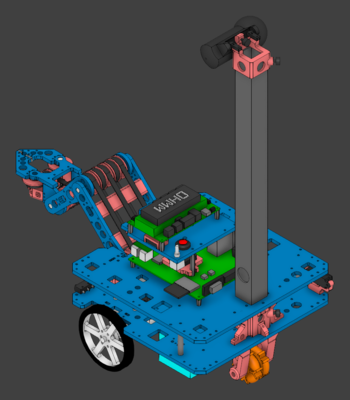
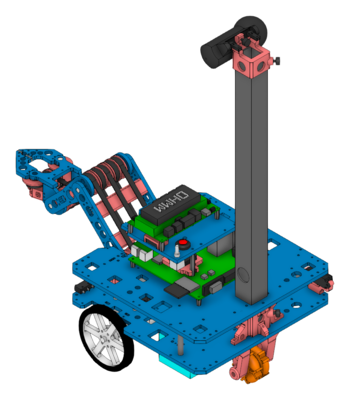
shot --theme (dark by default) and --background; README pictures on white, a window screenshot
cad-viewer shot and replay take --theme dark|light|auto, dark by default (the
system's preference emulated for the viewer's Auto); shot --background sets
the view's own background. The README's demo pictures are rendered on white,
and the README shows a screenshot of the whole viewer window (the user's).

Claude-Session: https://claude.ai/code/session_01HoEmKhLeZsDQLbhZtpEtXP

diff --git a/packages/viewer/bin/viewer.ts b/packages/viewer/bin/viewer.ts
@@ -32,11 +32,13 @@ Commands:
 
 Options for shot:
   -o <png>             where the PNG goes (default: the file's name with .png, in the current directory)
-                       (replay: -o, --json and --chrome too)
+                       (replay: -o, --json, --theme and --chrome too)
   --size <w>x<h>       the view in pixels (default 1200x800; one pixel per CSS pixel)
   --view <name>        front, back, left, right, top, bottom or iso (default: as the page fits it)
   --state <query>      more of the view, as in a link's address: "cut=x:10&hide=as1/plate&ao=0" (README.md)
   --json <file>        also write the page's state, the view's link and its status line there ("-": standard output)
+  --theme <theme>      dark (the default), light, or auto (the viewer's Auto: headless Chrome's preference, light)
+  --background <color> the view's background instead of the theme's, #rrggbb (white for pictures on a white page)
   --chrome <path>      Chrome (default: $CHROME, or where it usually is)
 
 Options (start, open and shot; a running server keeps its own):
@@ -59,6 +61,10 @@ export interface ShotOptions {
   state?: string;
   json?: string;
   chrome?: string;
+  /** dark (the default), light, or auto: headless Chrome's own preference, which the viewer's Auto follows. */
+  theme?: 'dark' | 'light' | 'auto';
+  /** The view's background instead of the theme's (0xrrggbb). */
+  background?: number;
 }
 
 export interface Args {
@@ -104,6 +110,15 @@ export function parseArgs(argv: string[]): Args | string {
       else if (a === '--state') shot.state = value().replace(/^\?/, '');
       else if (a === '--json') shot.json = value();
       else if (a === '--chrome') shot.chrome = value();
+      else if (a === '--theme') {
+        const v = value();
+        if (v !== 'dark' && v !== 'light' && v !== 'auto') return `--theme is dark, light or auto: ${v}`;
+        shot.theme = v;
+      } else if (a === '--background') {
+        const v = value();
+        if (!/^#?[0-9a-f]{6}$/i.test(v)) return `--background is #rrggbb: ${v}`;
+        shot.background = parseInt(v.replace('#', ''), 16);
+      }
       else if (a === '-h' || a === '--help') return 'help';
       else if (a.startsWith('-')) return `unknown option: ${a}`;
       else rest.push(a);
@@ -203,6 +218,13 @@ async function settled(tab: Tab, expression: string, timeoutMs: number): Promise
   }
 }
 
+/**
+ * The colour scheme headless Chrome reports for a shot's theme: the page starts with the viewer's Auto theme (a new
+ * profile remembers no choice), which follows it; auto leaves Chrome's own (light).
+ */
+const scheme = (o: ShotOptions): { colorScheme?: 'light' | 'dark' } => (o.theme ?? 'dark') === 'auto' ? {}
+  : { colorScheme: o.theme === 'light' ? 'light' : 'dark' };
+
 /** A file's `?model=`: its path within the content root, from its URL path below /content/. */
 const modelPath = (rel: string) => rel.slice(CONTENT_PREFIX.length).split('/').map(decodeURIComponent).join('/');
 
@@ -222,12 +244,13 @@ async function takeShot(s: State, file: string, o: ShotOptions, io: Io): Promise
   const headless = await launchChrome(fs.mkdtempSync(path.join(os.tmpdir(), 'cad-viewer-shot-')),
     { chrome: o.chrome, args: s.https === 'none' ? [] : ['--ignore-certificate-errors'] });
   try {
-    const tab = await headless.open(page, { width: o.width, height: o.height, scale: 1 });
+    const tab = await headless.open(page, { width: o.width, height: o.height, scale: 1, ...scheme(o) });
     await settled(tab, 'cadViewer.ready.then(() => cadViewer.idle()).then(() => true)', 600_000);
     const r = await tab.evaluate(`({ state: cadViewer.state(), link: cadViewer.link(),
       status: document.getElementById('status').textContent,
       error: document.getElementById('status').classList.contains('error'),
-      png: cadViewer.state().model ? cadViewer.screenshot() : null })`) as { state: { model?: { name: string;
+      png: cadViewer.state().model ? (${o.background === undefined ? '' : `viewer.setBackground(${o.background}), `
+      }cadViewer.screenshot()) : null })`) as { state: { model?: { name: string;
       triangles: number } }; link: string; status: string; error: boolean; png: string | null };
     const { png, ...report } = r;
     if (o.json) {
@@ -280,7 +303,7 @@ async function replayRecording(s: State, file: string, o: ShotOptions, io: Io): 
     { chrome: o.chrome, args: s.https === 'none' ? [] : ['--ignore-certificate-errors'] });
   try {
     const tab = await headless.open(s.url, { width: rec.window.width, height: rec.window.height,
-      scale: rec.window.scale });
+      scale: rec.window.scale, ...scheme(o) });
     await settled(tab, 'cadViewer.ready.then(() => true)', 600_000);
     const r = await tab.evaluate(`cadViewer.replay(${JSON.stringify(rec)}, { urls: ${JSON.stringify(urls)} })
       .then(async (report) => { await cadViewer.idle(); return { report, state: cadViewer.state(),

diff --git a/packages/viewer/test/browser-check.ts b/packages/viewer/test/browser-check.ts
@@ -16,6 +16,7 @@ import http from 'node:http';
 import net from 'node:net';
 import os from 'node:os';
 import path from 'node:path';
+import zlib from 'node:zlib';
 import { exportView, partInstances, tessellateScene } from 'cad-scene';
 import { glb, gltfJson } from 'export-gltf';
 import { threejsJson } from 'export-threejs';
@@ -1594,6 +1595,24 @@ await check('deterministic', async () => {
 });
 // cad-viewer shot (the dev server only): a PNG of the size asked for, and the page's state with the scene's
 // triangles.
+/**
+ * A PNG's top-left pixel, [r, g, b] (8-bit RGB or RGBA, as Chrome writes them): whatever a row's filter, its first
+ * pixel's bytes are stored as they are, since the bytes it would be predicted from (left, above) are zero in the
+ * first row.
+ */
+function topLeftPixel(png: Buffer): number[] {
+  const idat: Buffer[] = [];
+  for (let at = 8; at < png.length;) {
+    const length = png.readUInt32BE(at);
+    if (png.toString('latin1', at + 4, at + 8) === 'IDAT') idat.push(png.subarray(at + 8, at + 8 + length));
+    at += 12 + length;
+  }
+  const raw = zlib.inflateSync(Buffer.concat(idat));
+  return [raw[1]!, raw[2]!, raw[3]!];
+}
+
+// cad-viewer shot: dark by default (the viewer's Auto theme, with headless Chrome told the system is dark), light by
+// --theme, or a background of its own by --background (the background in the PNG's corner).
 if (!staticServer) await check('shot', async () => {
   const png = path.join(tmp, 'shot.png'), json = path.join(tmp, 'shot.json');
   const out: string[] = [];
@@ -1608,6 +1627,20 @@ if (!staticServer) await check('shot', async () => {
   expect(bytes.subarray(1, 4).toString() === 'PNG' && w === 1000 && h === 600, `png ${w}x${h}`);
   expect(report.state.model?.triangles === triangles && /[?&]model=as1\.stp(&|$)/.test(report.link),
     JSON.stringify(report.state.model));
+  expect(topLeftPixel(bytes).join() === '64,64,64', `dark by default: ${topLeftPixel(bytes)}`);
+  const lightPng = path.join(tmp, 'shot-light.png');
+  const code2 = await main(['shot', path.join(content, 'as1.stp'), '-o', lightPng, '--size', '400x300', '--theme',
+    'light', '--content-root', content, '--port', String(port)], { ...io, out: (s) => out.push(s),
+    err: (s) => out.push(s) });
+  expect(code2 === 0, `exit ${code2}: ${out.join('')}`);
+  expect(topLeftPixel(fs.readFileSync(lightPng)).join() === '217,217,217', `light: ${
+    topLeftPixel(fs.readFileSync(lightPng))}`);
+  // A background of its own (the README's pictures, on white).
+  const code3 = await main(['shot', path.join(content, 'as1.stp'), '-o', lightPng, '--size', '400x300', '--background',
+    '#ffffff', '--content-root', content, '--port', String(port)], { ...io, out: (s) => out.push(s),
+    err: (s) => out.push(s) });
+  expect(code3 === 0 && topLeftPixel(fs.readFileSync(lightPng)).join() === '255,255,255', `white: ${
+    topLeftPixel(fs.readFileSync(lightPng))}`);
   return undefined;
 });
 // Recording (src/recorder.ts): a session driven by real input (clicks on parts, shift-click, a drag, a wheel zoom)
@@ -1779,13 +1812,18 @@ await check('recording', async () => {
       { ...io, out: (s) => out.push(s), err: (s) => out.push(s) });
     expect(code === 0 && fs.existsSync(png) && /as recorded/.test(out.join('')), `cad-viewer replay: exit ${code}: ${
       out.join('')}`);
+    // Dark by default, as shot; light by --theme (below).
+    expect(topLeftPixel(fs.readFileSync(png)).join() === '64,64,64', `replay, dark: ${topLeftPixel(fs.readFileSync(
+      png))}`);
     // The local file found below the content root, by name and size.
     fs.writeFileSync(json, JSON.stringify(localRec));
     const out2: string[] = [];
-    const code2 = await main(['replay', json, '-o', png, '--content-root', content, '--port', String(port)],
-      { ...io, out: (s) => out2.push(s), err: (s) => out2.push(s) });
+    const code2 = await main(['replay', json, '-o', png, '--theme', 'light', '--content-root', content, '--port',
+      String(port)], { ...io, out: (s) => out2.push(s), err: (s) => out2.push(s) });
     expect(code2 === 0 && /as recorded/.test(out2.join('')), `cad-viewer replay, a local file: exit ${code2}: ${
       out2.join('')}`);
+    expect(topLeftPixel(fs.readFileSync(png)).join() === '217,217,217', `replay, light: ${topLeftPixel(
+      fs.readFileSync(png))}`);
   }
   return undefined;
 });

diff --git a/packages/viewer/test/viewer.test.ts b/packages/viewer/test/viewer.test.ts
@@ -296,10 +296,11 @@ test('cad-viewer: arguments', () => {
   assert.ok(typeof s === 'object' && s.given.length === 0 && s.file === undefined);
   assert.equal(parseArgs(['-h']), 'help');
   const shot = parseArgs(['shot', 'm.stp', '-o', 'out.png', '--size', '640x480', '--view', 'top', '--state',
-    '?cut=x:1&ao=0', '--json', '-', '--chrome', '/c']);
+    '?cut=x:1&ao=0', '--json', '-', '--chrome', '/c', '--theme', 'light', '--background',
+    '#FFfFff']);
   assert.ok(typeof shot === 'object');
   assert.deepEqual(shot.shot, { out: path.resolve('out.png'), width: 640, height: 480, view: 'top',
-    state: 'cut=x:1&ao=0', json: '-', chrome: '/c' });
+    state: 'cut=x:1&ao=0', json: '-', chrome: '/c', theme: 'light', background: 0xffffff });
   const rep = parseArgs(['replay', 'r.json', '-o', 'end.png', '--json', 'out.json']);
   assert.ok(typeof rep === 'object' && rep.command === 'replay' && rep.file === path.resolve('r.json') &&
     rep.shot.out === path.resolve('end.png') && rep.shot.json === 'out.json');
@@ -308,7 +309,8 @@ test('cad-viewer: arguments', () => {
   for (const [argv, err] of [[[], /no command/], [['serve'], /unknown command/], [['open'], /one file/],
     [['shot'], /one file/], [['replay'], /one file/], [['replay', 'a', 'b'], /one file/],
     [['shot', 'a', '--size', '640'], /--size/], [['shot', 'a', '--size', '8x8'], /--size/],
-    [['shot', 'a', '--size', '9000x10'], /--size/],
+    [['shot', 'a', '--size', '9000x10'], /--size/], [['shot', 'a', '--theme', 'grey'], /--theme/],
+    [['shot', 'a', '--background', 'white'], /--background/],
     [['open', 'a', 'b'], /one file/], [['stop', 'a'], /takes no file/], [['start', '--port', 'x'], /bad port/],
     [['start', '--port'], /needs a value/], [['start', '--https', 'yes'], /self or mkcert/],
     [['start', '--frob'], /unknown option/]] as [string[], RegExp][]) {

diff --git a/packages/viewer/server/headless.ts b/packages/viewer/server/headless.ts
@@ -32,6 +32,8 @@ export interface PageOptions {
   scale?: number;
   mobile?: boolean;
   touch?: boolean;
+  /** The system's colour scheme as the page sees it (`prefers-color-scheme`; the viewer's Auto theme follows it). */
+  colorScheme?: 'light' | 'dark';
 }
 
 export interface Headless {
@@ -85,6 +87,8 @@ export async function launchChrome(profile: string, opts: { chrome?: string; arg
         deviceScaleFactor: o.scale ?? 1, mobile: o.mobile ?? false }, sessionId);
     }
     if (o.touch) await send('Emulation.setTouchEmulationEnabled', { enabled: true, maxTouchPoints: 5 }, sessionId);
+    if (o.colorScheme) await send('Emulation.setEmulatedMedia', { features: [{ name: 'prefers-color-scheme',
+      value: o.colorScheme }] }, sessionId);
     await send('Page.navigate', { url }, sessionId);
     const evaluate = async (expression: string, timeoutMs = 180_000) => {
       let timer: ReturnType<typeof setTimeout> | undefined;

diff --git a/packages/viewer/src/viewer.ts b/packages/viewer/src/viewer.ts
@@ -275,9 +275,23 @@ export class Viewer {
   }
 
   /** Redraws soon (after any change to the scene). */
+  private theme: Theme = 'dark';
+  private background: number | undefined;
+
   /** The view's background for a theme (theme.ts). */
   setTheme(theme: Theme): void {
-    (this.scene.background as THREE.Color).setHex(VIEW_BACKGROUNDS[theme]);
+    this.theme = theme;
+    this.applyBackground();
+  }
+
+  /** A background of the view's own, whatever the theme (`cad-viewer shot --background`), or undefined: the theme's. */
+  setBackground(color: number | undefined): void {
+    this.background = color;
+    this.applyBackground();
+  }
+
+  private applyBackground(): void {
+    (this.scene.background as THREE.Color).setHex(this.background ?? VIEW_BACKGROUNDS[this.theme]);
     this.redraw();
   }
 

diff --git a/CLAUDE.md b/CLAUDE.md
@@ -142,7 +142,7 @@ Made by the user unless marked; the alternatives considered are at `V0.1.0` (abo
 - Deploying to GitHub Pages (the user, 2026-10-25): a local script, `scripts/deploy-viewer.sh` (`npm run deploy-viewer`), builds with this machine's backend modules and force-pushes the build as the only commit of `gh-pages` (`.nojekyll` added: Jekyll would drop `__vite-browser-external-*.js`); it refuses uncommitted changes and a commit not yet on the remote, as `licenses.md` names the public repository as the source. Alternatives: a commit hook (build output in `main`'s history, a run on every commit), a GitHub Actions workflow (`workflow_dispatch` or tags, then `upload-pages-artifact`, `deploy-pages`) taking the modules from a release's assets checked against committed SHA-256s, or building them in CI (emsdk, Rust, OCCT's libraries cached; 15-20 minutes cold).
 - After trying the deployed viewer (the user, 2026-10-25): the tree panel closed with no model and opened when one loads; section planes reset to their defaults (all off) with each model; the controls flush right; a handle dragging the tree panel's width. Choices for review: the panel opens on each new model unless the user closed it by hand while a model was shown, and never by itself on narrow screens (it would cover the view); planes reset when the new model arrives (its scene, for STEP), not when its load finishes, so the old cuts never apply to it; the controls at the right edge past a notch's safe area (`env(safe-area-inset-right)`); the handle (`side-handle.ts`) 7 pixels over the panel's edge, the width at least 140 pixels and leaving 200 to the view, remembered in `localStorage` (`cad-viewer.side`), a double click going back to 300, no handle on narrow screens (since 2026-10-27 there too, below).
 - The tree's handle on phones and tablets (the user, 2026-10-27: none on phones, and the panel too wide there): narrow screens (700 pixels or less, where the panel lies over the view) have the handle too, and the panel is 140 pixels by default there, the narrowest it can be dragged to (`MIN`; the user, 2026-10-27, after a first 240; was 85 % of the window), dragged to at most 40 pixels from the window's right edge (`clampWidth`; 200 pixels of view kept beside it on wider screens), and capped so by CSS too, for a width set where it fit (the phone turned upright); on touch screens (`pointer: coarse`, tablets included, where the 7-pixel handle lit only on hover) the handle is 24 pixels wide with a grip always shown. Choices for review: the 40 pixels left to tap the view; one remembered width for both layouts. Checked by the browser check's `phone` (a finger drag) and `side-handle.test.ts` (5 planted bugs, all caught).
-- Themes (the user, 2026-10-27: a light theme beside the dark one, then a pulldown, Auto by default): View's **Theme**, **Auto** (the system's `prefers-color-scheme`, followed as it changes; dark unless the system prefers light), **Light** or **Dark**; the page's colours are CSS variables on the root (`index.html`), the dark ones the default and light ones under `data-theme="light"`, with lil-gui's own variables set to its documentation's light theme; the 3D view's background 0x404040 or 0xd9d9d9 (`theme.ts`, `Viewer.setTheme`); the browser's toolbar colour (`theme-color`) follows; Light and Dark remembered in this browser (`cad-viewer.theme`; Auto forgets the choice) and applied before the first paint by an inline script (the same rule as `resolveTheme`), so a page doesn't flash the other theme. Links in dialogs got a colour of their own (the browser's default blue was hard to read on the dark panel). Choices for review: the pulldown in View; the light palette (panels #f4f4f4, view #d9d9d9, selection #b3d4f0); the theme not part of links or recordings' end state; `cad-viewer shot` and the browser check get headless Chrome's system preference. Checked by `theme.test.ts` and the browser check's `theme`, which emulates the system's preference (14 planted bugs, all caught; the inline script's by the theme read when the page is parsed, before the modules run).
+- Themes (the user, 2026-10-27: a light theme beside the dark one, then a pulldown, Auto by default): View's **Theme**, **Auto** (the system's `prefers-color-scheme`, followed as it changes; dark unless the system prefers light), **Light** or **Dark**; the page's colours are CSS variables on the root (`index.html`), the dark ones the default and light ones under `data-theme="light"`, with lil-gui's own variables set to its documentation's light theme; the 3D view's background 0x404040 or 0xd9d9d9 (`theme.ts`, `Viewer.setTheme`); the browser's toolbar colour (`theme-color`) follows; Light and Dark remembered in this browser (`cad-viewer.theme`; Auto forgets the choice) and applied before the first paint by an inline script (the same rule as `resolveTheme`), so a page doesn't flash the other theme. Links in dialogs got a colour of their own (the browser's default blue was hard to read on the dark panel). Choices for review: the pulldown in View; the light palette (panels #f4f4f4, view #d9d9d9, selection #b3d4f0); the theme not part of links or recordings' end state; the browser check gets headless Chrome's system preference (light); `cad-viewer shot` and `replay` take `--theme dark|light|auto`, dark by default (the user, 2026-10-27; light fine for Claude's own debugging), by emulating the system's preference for the viewer's Auto (a new profile remembers no choice), checked by the corner pixel of their PNGs (6 planted bugs, all caught); `shot --background <#rrggbb>` sets a background of the view's own (`Viewer.setBackground`), for the README's pictures on white (the user, 2026-10-27: the page's own white). Checked by `theme.test.ts` and the browser check's `theme`, which emulates the system's preference (14 planted bugs, all caught; the inline script's by the theme read when the page is parsed, before the modules run).
 - About (the user, 2026-10-27): File's **About...** opens a modal (`about.ts`, through `dialog.ts`, whose paragraphs may now hold links, opened in a new tab with `noopener`): what the viewer is, "By Claude (Anthropic) and Marsette Vona." (Claude first, the user's order), the licenses (Apache-2.0; the OCCT backend LGPL-2.1 with the Open CASCADE exception; the demo models CC BY-SA 4.0), in builds a link to `licenses.md` (the dev server has none), and the repository's GitHub link. The lil-gui panel's title is "cad-io-js CAD viewer" (the user, 2026-10-27; was "cad-viewer"). Checked by the browser check's `about`, on the dev server and a build (7 planted bugs, all caught).
 - Fading, Select all, full screen on phones (the user, 2026-10-27): the status line fades out 5 s after it last changed (whatever it says, errors included) and comes back when it changes (the same text again doesn't count); the details box likewise while it says "Nothing selected.", and stays while it describes a selection (and shows again when **Details** is turned back on); a 0.6 s fade (`autoHide` in `ui.ts`, a `faded` class). **Select all** (Selection, under **Select none**) selects what a click could at the pick level: every part shown, every shown part's assembly (its parent), or every shown part's faces, edges, curves and points (the tree's detail turned on, as picking at that level does); hidden nodes left out, as they can't be clicked; not revealed in the tree (that would open every branch). Leaving full screen scrolls the page back to its top, at once and 400 ms later: the user saw the details box, at the view's top left, partly hidden after full screen on a phone, read as the page left scrolled under the browser's returning toolbar; a guess, not reproduced (headless Chrome's emulation has no such toolbar) nor tried on a phone. Choices for review: errors fading too; hidden nodes left out of Select all; the scroll as the fix. Checked by the browser check's `auto hide and select all` (13 planted bugs, all caught; the full-screen fix not covered).
 - The tree scrolls sideways (the user, 2026-10-27, on every device): rows are as wide as their content (no ellipsis; the names were cut short before), and every row as wide as the widest drawn since the tree was made (`headless-tree-view.ts`), and at least as wide as the panel (so a selected row's colour spans it). Choices for review: only the rows in view are drawn, so the scroll range is the widest seen so far, kept rather than recomputed as rows scroll in and out (it doesn't jump; collapsing a deep branch can leave it wider than needed until the next model); measured once a frame after the rows are written. Checked by the browser check's `tree scrolls sideways` (6 planted bugs: 4 caught, the survivors the old ellipsis and a shrinking content box, equivalent since each row is given at least its content's width).

diff --git a/README.md b/README.md
@@ -15,6 +15,8 @@ Reading CAD files into memory, and converting them, in TypeScript for Node.js an
 |:---:|:---:|
 | [`ohmm-ap242.step`](https://martyvona.github.io/cad-io-js/?model=demo/ohmm-ap242.step): 71 parts | [`rpbp-ap242.step`](https://martyvona.github.io/cad-io-js/?model=demo/rpbp-ap242.step): 50 parts |
 
+![The viewer showing an assembly: the model tree on the left with a part selected, the part's details over the view, and the controls on the right](cad-io-js-lightarm.jpg)
+
 In more detail:
 
 - **a STEP parser and writer** in pure TypeScript with no runtime dependencies: lossless, schema-aware, tolerant of real-world files, and fast (about 230 MB/s to index, 140 MB/s to decode);
@@ -351,7 +353,7 @@ What can't be applied (an unknown path, a malformed value) is said in the status
 
 **`window.cadViewer`**, for scripts and the browser's console (`src/automation.ts`; version 1, which changes only by additions): `ready` (a promise: the start, `model=` and the view in the address, done), `load(url)` (resolves with the load's report once every part is meshed), `idle()` (nothing loading and the last frame drawn), `state()` (the view as the link has it, plus the model's name, URL, counts, centroid and parts), `apply(state)` (returns what couldn't be applied), `link()`, `nodes()` (paths, kinds, names, hidden), `select(paths, {add})`, `hide(paths)`, `show(paths)` (each returns the paths that name nothing), `showAll()`, `view(name)`, `zoomAll()`, `zoomSelected()`, `pickAt(x, y)` (fractions of the view from its top left: the path and the point), `screenshot()` (a PNG data URL, drawn then). The controls follow whatever it does.
 
-**`cad-viewer shot <file>`** renders a file below the content root headlessly (Chrome, `$CHROME` or `--chrome`; through the page's `cadViewer`) to a PNG of the view only (the tree closed, unless `--state` opens it; `?deterministic`): `-o <png>`, `--size <w>x<h>` (default 1200x800), `--view <name>`, `--state "<query>"` (more of the view, as in a link: `"cut=x:10&hide=as1/plate&ao=0"`), `--json <file|->` (the page's state, the view's link and its status line). It starts the dev server if needed and leaves it running; it prints the PNG's path, size, the model and its triangles, and the link.
+**`cad-viewer shot <file>`** renders a file below the content root headlessly (Chrome, `$CHROME` or `--chrome`; through the page's `cadViewer`) to a PNG of the view only (the tree closed, unless `--state` opens it; `?deterministic`): `-o <png>`, `--size <w>x<h>` (default 1200x800), `--view <name>`, `--state "<query>"` (more of the view, as in a link: `"cut=x:10&hide=as1/plate&ao=0"`), `--json <file|->` (the page's state, the view's link and its status line), `--theme dark|light|auto` (dark by default; auto is headless Chrome's own preference, light), `--background <#rrggbb>` (the view's background instead of the theme's: the pictures above are on `#ffffff`, trimmed). It starts the dev server if needed and leaves it running; it prints the PNG's path, size, the model and its triangles, and the link.
 
 ### Recording and Replaying
 
@@ -359,7 +361,7 @@ To reproduce a bug, record what you do: **Recording**, **Record** (or `?record` 
 
 **Replay recording...** asks for the recording alone. If the model open is the one the recording was made with (the same SHA-256), the replay starts; else a dialog names the recorded model (name, size, SHA-256, and its URL if it came from one) and offers **Open file...** and **Open URL...** (the recorded URL filled in). A file whose hash differs isn't loaded: an error dialog shows both files' names, sizes and hashes, and the replay stops. Then it replays in the page at the recording's pace, so you can watch it: each step waits for its recorded gap after the last (pauses longer than 3 seconds are cut to 3), drags turn the camera over the drag's time with a marker where the pointer was pressed, each control is shown as it changes (its folder opened, the control flashed; the folders close again at the end), and **Stop replay** ends it. Order comes first: a step starts only once the last is done (a load meshed, Mesh again finished), so a step slower than it was makes the replay slower, never out of order. Replayed are controls, selections, loads, the camera after each drag or zoom (pointer moves themselves aren't replayed: the controls capture the pointer), and each pick at its recorded pixel through the view's own picking, compared with what was picked then. It reports divergences: a pick landing elsewhere, a file not given, a control gone, a view of another size at a pick, an end state that differs. `cadViewer.record(on)`, `recording()` and `replay(recording, { files, urls, openModel, realtime, maxPause, signal })` do the same from scripts (`openModel(model)` opening each recorded model, as the dialogs do; as fast as the viewer allows unless `realtime`, as are `cad-viewer replay`'s).
 
-**`cad-viewer replay <recording.json>`** replays headlessly at the recorded window's size and pixel ratio, finds local files below the content root by name and size, writes the view at the end (`-o`, `--json` for the report and state), prints the divergences, and exits 3 if there were any. Timing-dependent behaviour (a click while a model is still meshing) replays only approximately, as each step waits for the viewer; the timestamps say when things happened.
+**`cad-viewer replay <recording.json>`** replays headlessly at the recorded window's size and pixel ratio, finds local files below the content root by name and size, writes the view at the end (`-o`, `--json` for the report and state, `--theme` as for `shot`), prints the divergences, and exits 3 if there were any. Timing-dependent behaviour (a click while a model is still meshing) replays only approximately, as each step waits for the viewer; the timestamps say when things happened.
 
 ### What the Viewer Does with Files
 

diff --git a/test_corpus/README.md b/test_corpus/README.md
@@ -10,7 +10,7 @@
 
 ## Demo models
 
-`demo/` holds STEP models made by Marsette Vona, with a picture of each (the README's, made with `cad-viewer shot` and trimmed), licensed under CC BY-SA 4.0 (`demo/LICENSE.txt`, and in each file's header), not Apache-2.0 as the rest of the repository, committed so that the viewer can show them: the GitHub Pages deployment serves them at `content/demo/` (`?model=demo/rpbp-ap242.step`), as the dev server does with its default content root. They are not in `files.txt`, so the corpus checks don't read them.
+`demo/` holds STEP models made by Marsette Vona, with a picture of each (the README's: `cad-viewer shot <model> --size 1600x1600 --view iso --background '#ffffff'`, then `magick <png> -fuzz 2% -trim +repage -bordercolor '#ffffff' -border 40 -resize x400 -strip`), licensed under CC BY-SA 4.0 (`demo/LICENSE.txt`, and in each file's header), not Apache-2.0 as the rest of the repository, committed so that the viewer can show them: the GitHub Pages deployment serves them at `content/demo/` (`?model=demo/rpbp-ap242.step`), as the dev server does with its default content root. They are not in `files.txt`, so the corpus checks don't read them.
 
 ## Setup
 
